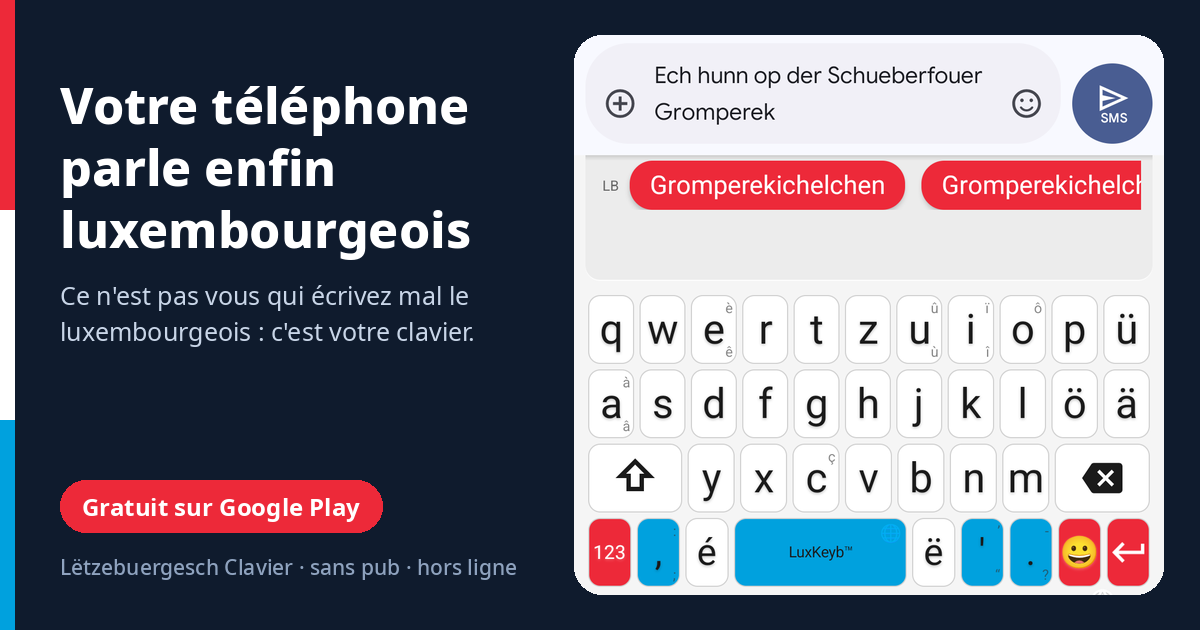
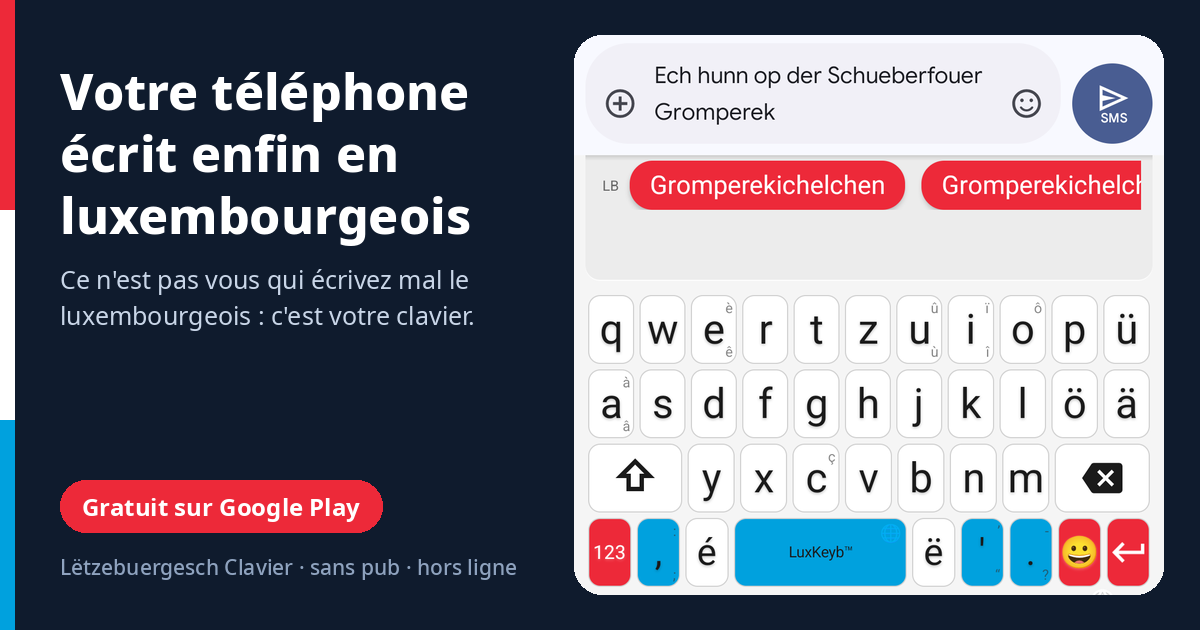
docs(accueil): « écrit enfin en luxembourgeois », plus factuel
Claude-Session: https://claude.ai/code/session_01SYpbEfMk2KELBQXBqaisjq

Changed region(s): [[0.0308, 0.1206, 0.4008, 0.5429]]

diff --git a/docs/index.md b/docs/index.md
@@ -1,5 +1,5 @@
 ---
-title: "Votre téléphone parle enfin luxembourgeois 🇱🇺"
+title: "Votre téléphone écrit enfin en luxembourgeois 🇱🇺"
 description: "Ce n'est pas vous qui écrivez mal le luxembourgeois : c'est votre clavier."
 image: /assets/og/partage.png
 lang: fr
